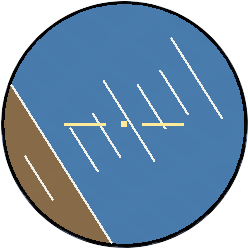
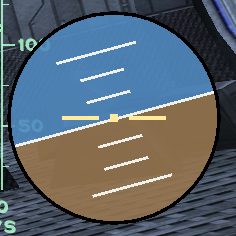
Retake the README pictures in the running game (D-018)
The first README pictures were taken on plain backgrounds so no game
artwork appeared. The owner decided screenshots of the running game may
go in the docs (D-018): AV-005 is about game data files, which still
never go in the repository, and upstream's own README opens with a
gameplay screenshot.

New shots at 1280 pixels wide: the deck main menu, options over a level,
keyboard bindings, the flight HUD in a climbing roll (now a JPEG), the
attitude ball, the four reticles, the scanner map, and the end-of-level
review, which is new to the README. 1.6 MB in all.

diff --git a/CLAUDE.md b/CLAUDE.md
@@ -4,7 +4,7 @@
 Tartarus (working title, D-002) is a Linux-first fork of the GPL-3.0 Descent 3 engine (DescentDevelopers/Descent3) that keeps stock gameplay behind a Classic Mode flag and adds tactical features: developer console + cvars, password-gated cheat menu, player cloak, gravity missile, repulsor, orientation aids, automap overhaul, and modernisation (FOV, raw mouse, quicksave, fixed timestep). All additions live in `Descent3/tartarus/` with a short list of marked hook points.
 
 ## Current state
-- Upstream **https://github.com/DescentDevelopers/Descent3** is the `upstream` remote and was merged into `main` on 2026-11-01 at `593b880f` (`--allow-unrelated-histories`; repo is not a GitHub fork). Upstream's own README/BUILD/CHANGELOG live in `docs/UPSTREAM_*.md`; ours are at the root. `.gitignore` = upstream's file unchanged + a Tartarus block at the end. `Descent3/tartarus/` (wired in via `tartarus.cmake`) has: datadir (F-003), version (F-004), cvars (F-011), Classic gate (F-002), console (F-010), display fixes (BUG-004/005), TelCom pointer speed (BUG-006), mouse buttons (BUG-007), cheat menu (F-012, 17/19 rows), virtual-joystick mouse (F-067), raw mouse (F-062, partly), graphics options (F-068), options deck (F-069, D-016), deck main menu and other deck screens. 133 `// TARTARUS:` markers in `Descent3/CMakeLists.txt`, `init.cpp`, `mmItem.cpp`, `gamesave.cpp`, `newui.cpp`, `help.cpp`, `buddymenu.cpp`, `pilot.cpp`, `ctlconfig.cpp`, `hud.cpp`, `config.cpp`, `GameLoop.cpp`, `TelCom.cpp`, `TelComGoals.cpp`, `Controls.cpp`, `ddio/sdlcontroller.cpp`, `ddio/lnxmouse.cpp`, `renderer/HardwareOpenGL.cpp`, `renderer/dyna_gl.h`, `renderer/ShaderProgram.h`, `lib/renderer.h`, `gamesequence.cpp`, `gamecinematics.cpp`, `TelComAutoMap.cpp`, `SmallViews.cpp`, `game.cpp`, `menu.cpp`, `screens.cpp`, `.github/workflows/build.yml`, `.github/workflows/cd.yml`; GameLoop hooks call the dispatchers in `tartarus.cpp` (`HandleKey`, `Frame`, `TimeScale`, `RenderOverlays`), so new modules plug in there, not via new hooks. All 172 ctest tests pass (upstream's + ours). The game reaches level 1 from the Steam install with no flags. Documents: README, FEATURES, ROADMAP, ARCHITECTURE, DECISIONS (D-001–D-017), SPEC, ATTACK_VECTORS (AV-001–AV-013), BUILD, BUGS, IMPROVEMENTS, CHANGELOG.
+- Upstream **https://github.com/DescentDevelopers/Descent3** is the `upstream` remote and was merged into `main` on 2026-11-01 at `593b880f` (`--allow-unrelated-histories`; repo is not a GitHub fork). Upstream's own README/BUILD/CHANGELOG live in `docs/UPSTREAM_*.md`; ours are at the root. `.gitignore` = upstream's file unchanged + a Tartarus block at the end. `Descent3/tartarus/` (wired in via `tartarus.cmake`) has: datadir (F-003), version (F-004), cvars (F-011), Classic gate (F-002), console (F-010), display fixes (BUG-004/005), TelCom pointer speed (BUG-006), mouse buttons (BUG-007), cheat menu (F-012, 17/19 rows), virtual-joystick mouse (F-067), raw mouse (F-062, partly), graphics options (F-068), options deck (F-069, D-016), deck main menu and other deck screens. 133 `// TARTARUS:` markers in `Descent3/CMakeLists.txt`, `init.cpp`, `mmItem.cpp`, `gamesave.cpp`, `newui.cpp`, `help.cpp`, `buddymenu.cpp`, `pilot.cpp`, `ctlconfig.cpp`, `hud.cpp`, `config.cpp`, `GameLoop.cpp`, `TelCom.cpp`, `TelComGoals.cpp`, `Controls.cpp`, `ddio/sdlcontroller.cpp`, `ddio/lnxmouse.cpp`, `renderer/HardwareOpenGL.cpp`, `renderer/dyna_gl.h`, `renderer/ShaderProgram.h`, `lib/renderer.h`, `gamesequence.cpp`, `gamecinematics.cpp`, `TelComAutoMap.cpp`, `SmallViews.cpp`, `game.cpp`, `menu.cpp`, `screens.cpp`, `.github/workflows/build.yml`, `.github/workflows/cd.yml`; GameLoop hooks call the dispatchers in `tartarus.cpp` (`HandleKey`, `Frame`, `TimeScale`, `RenderOverlays`), so new modules plug in there, not via new hooks. All 172 ctest tests pass (upstream's + ours). The game reaches level 1 from the Steam install with no flags. Documents: README, FEATURES, ROADMAP, ARCHITECTURE, DECISIONS (D-001–D-018), SPEC, ATTACK_VECTORS (AV-001–AV-013), BUILD, BUGS, IMPROVEMENTS, CHANGELOG.
 - Upstream reference for all file/symbol names in the docs: commit `fa61eec` (2026-11-01); the merged `593b880f` only adds netgames/netcon logging on top. Upstream is on SDL3 (1.6.0-dev); its own `BUILD.md`/`USAGE.md` are authoritative for build mechanics.
 - Verified upstream facts the design relies on: `GameCheat.cpp` typed-sequence cheats and `IsCheater`; `MakeObjectInvisible()` in `object_lighting.h`; `GRAVITY_FIELD_INDEX` / `DoGravityFieldEffect` in `fireball.cpp`; `phys_apply_force()` in `physics/physics.cpp`; autolevel block in `physics/physics.cpp` (`MAX_AUTOLEVEL_TILT_ANGLE`); `AllocWeapon()`/`FindWeaponName()` in `weapon.cpp`, `MAX_WEAPONS 200`; `HUD_ITEM_*` in `hud.h`; `TelComAutoMap.cpp`; `MAX_ENERGY/MAX_SHIELDS 200`.
 

diff --git a/README.md b/README.md
@@ -1,6 +1,6 @@
 > **Status:** Active
 > **Provenance:** Shane Hartley (project owner, design); Claude (initial documentation scaffolding, 2026-11-01)
-> **Last reviewed:** 2026-11-04
+> **Last reviewed:** 2026-11-14
 > **Why this status:** In development. Upstream is merged and the game plays from a Steam install; Phases 0 and 1 of ROADMAP.md are closed apart from listed deferrals, and Phase 2 (controls and display) is under way.
 
 # Tartarus — a tactical Descent 3 for Linux
@@ -23,13 +23,15 @@ The deck covers the whole game in Tartarus mode: the main menu, saving and loadi
 
 ![The keyboard bindings on the deck](docs/images/deck-keyboard.png)
 
+At the end of each level the Pilot Performance Review comes up on the deck too.
+
+![The end-of-level review on the deck](docs/images/deck-results.png)
+
 ## Flight HUD
 
 In cockpit view a pale green head-up display sits on the canopy, behind the cockpit frame, so it looks as if it is on the glass. Everything lines up with the real world at any field of view.
 
-![The flight HUD, shown here on a plain background](docs/images/flight-hud.png)
-
-*Shown on a plain background so the picture contains no game artwork.*
+![The flight HUD in a climbing roll](docs/images/flight-hud.jpg)
 
 - **Horizon and pitch ladder** tilt and move with the ship, so you can always see which way is up.
 - **Flight path marker** shows where the ship is actually going, which in a craft that slides sideways is often not where the nose points. A cross through it means you are moving backwards.
@@ -49,7 +51,7 @@ Hold **X** to roll upright, or tap **Z** to roll to the nearest upright. Any rol
 
 A choice of four drawn reticles: Gunsight, Brackets, Chevrons and Cross. The stock reticle is still available. In all of them, the bars at the sides show your primary guns and the pips underneath show your missile launchers, placed by side, and bright means ready to fire.
 
-![The four reticle styles](docs/images/reticles.png)
+![The four reticle styles: Gunsight, Brackets, Chevrons and Cross](docs/images/reticles.png)
 
 ## The automap
 

diff --git a/DECISIONS.md b/DECISIONS.md
@@ -374,3 +374,22 @@ Status vocabulary: Proposed | Accepted | Superseded by D-NNN | Deprecated.
 - Pilots who fly in the full-screen HUD view see no aid by default.
 
 **Reversal conditions.** Playtest evidence that the flight HUD clutters the view, or that new players in the full-screen view lose track of up.
+
+### D-018 Gameplay screenshots are allowed in the docs
+**Decided:** 2026-11-14
+**Recorded:** 2026-11-14
+**Status:** Accepted
+**Authors:** Shane Hartley (owner's call, 2026-11-14)
+**Related:** AV-005
+
+**Context.** The README's first screenshots (2026-11-04 and 2026-11-05) were taken on plain or black backgrounds so that no game artwork appeared, a cautious reading of AV-005. AV-005 is about game data files (HOGs, missions, textures, tables) in the repository, not pictures of the running game. Upstream's own README opens with a gameplay screenshot.
+
+**Options.**
+- **A. Keep pictures free of game artwork.** Rejected: the features are hard to judge without the game behind them.
+- **B. Allow screenshots of the game running with Tartarus's features.** Chosen.
+
+**Decision.** Option B. Screenshots taken from the running game may go in the docs. No game data file, extracted texture, model or sound ever goes in the repository (AV-005 unchanged). Images are kept small: resized to 1280 pixels wide, with photographic shots as JPEG.
+
+**Consequences.**
+- The README pictures were retaken in the game on 2026-11-14.
+

diff --git a/ATTACK_VECTORS.md b/ATTACK_VECTORS.md
@@ -40,8 +40,8 @@ Severity: Critical (must hold) | Major (regression on release blocks) | Minor (t
 **Severity:** Critical
 **Description.** A HOG, mission, movie, extracted texture or table file lands in git, infringing Outrage/Interplay rights and poisoning every clone.
 **Detection.** Pre-commit hook rejecting `CLAUDE.local.md`, `*.hog`, `*.mn3`, `*.d3l`, `*.gam`, `*.mve`, `*.ogv`, `*.oof`, `*.ogf`, `*.pld` and any file > 5 MB outside `third_party/`; `.gitignore` for the same; CI runs the same check. Exempt: upstream's own tracked, GPL-released files in `scripts/data/demohog/`, `scripts/data/fullhog/` (HogMaker inputs for `d3-linux.hog`) and `cfile/tests/TestDir/` (test fixture); the hook must allow these paths, and merges from `upstream` that touch only them.
-**Related decisions.** D-003, D-007.
-**History.** —
+**Related decisions.** D-003, D-007, D-018.
+**History.** 2026-11-14: screenshots of the running game in the docs are not game data (D-018).
 
 ### AV-012 GPL compliance of binary releases
 **Severity:** Major
